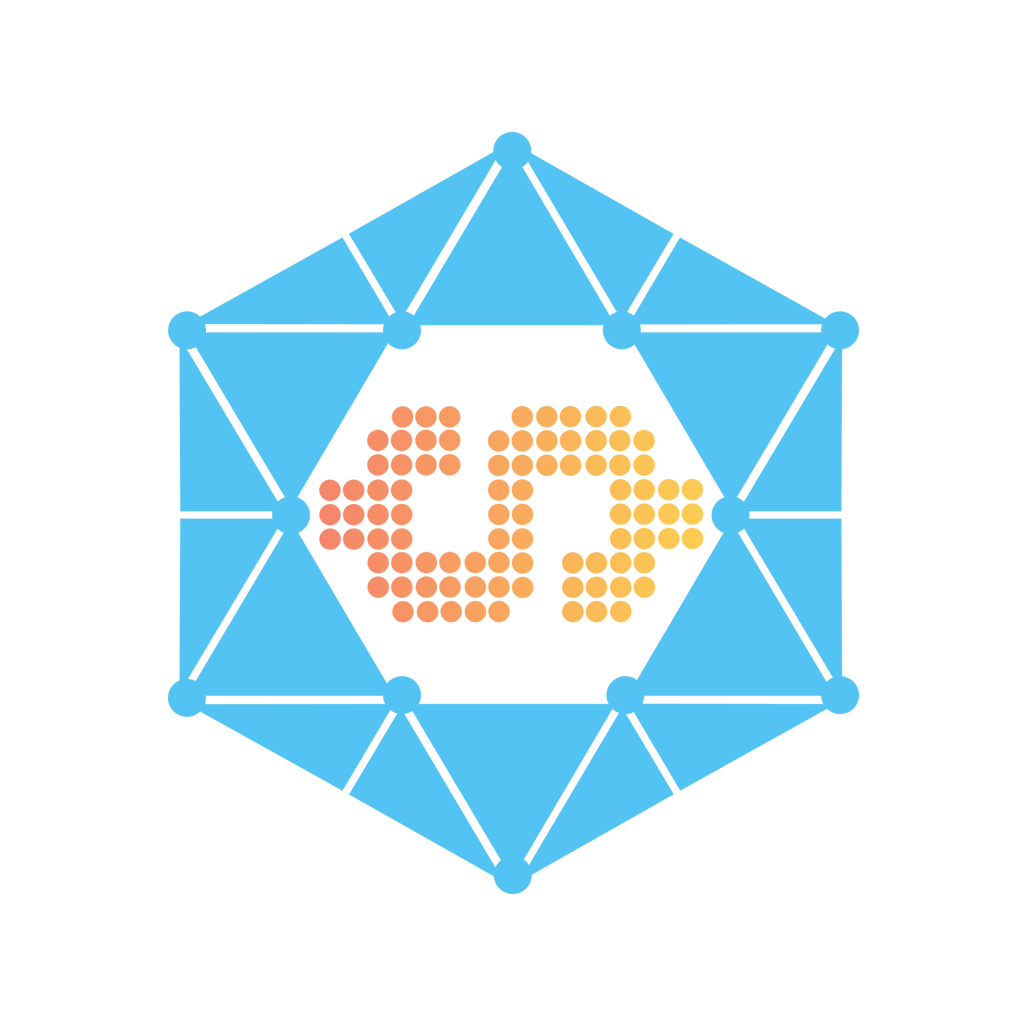
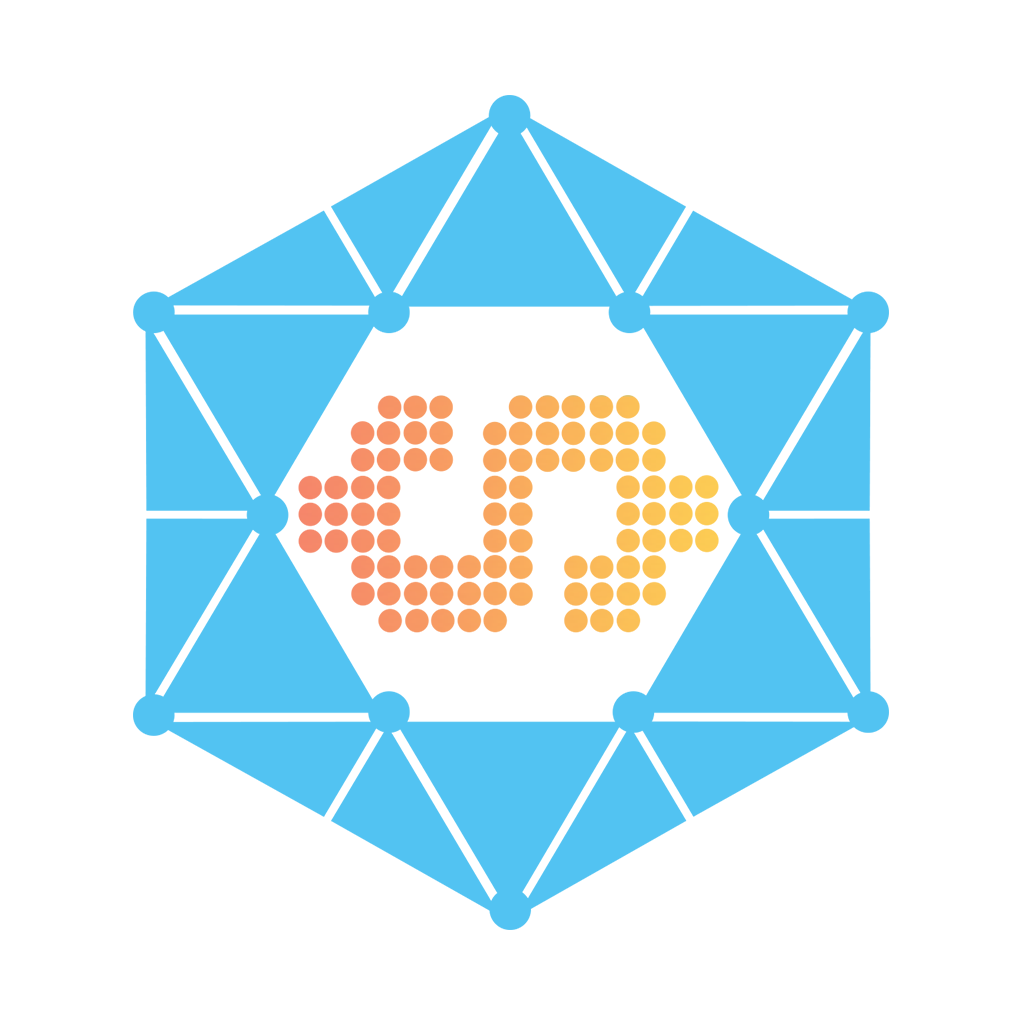
更新图标素材，修复全局的height重复触发。

Changed region(s): [[0.125, 0.0938, 0.875, 0.9062]]

diff --git a/src/providers/app-setting/app-setting.ts b/src/providers/app-setting/app-setting.ts
@@ -163,6 +163,9 @@ export class AppSettingProvider extends EventEmitter {
   /**轮次*/
   round: BehaviorSubject<number> = new BehaviorSubject(1);
   setHeight(height: number) {
+    if (this.getHeight() == height) {
+      return;
+    }
     this.height.next(height);
     const pre_round = this.getRound();
     const cur_round = (height / 57) | 0;
